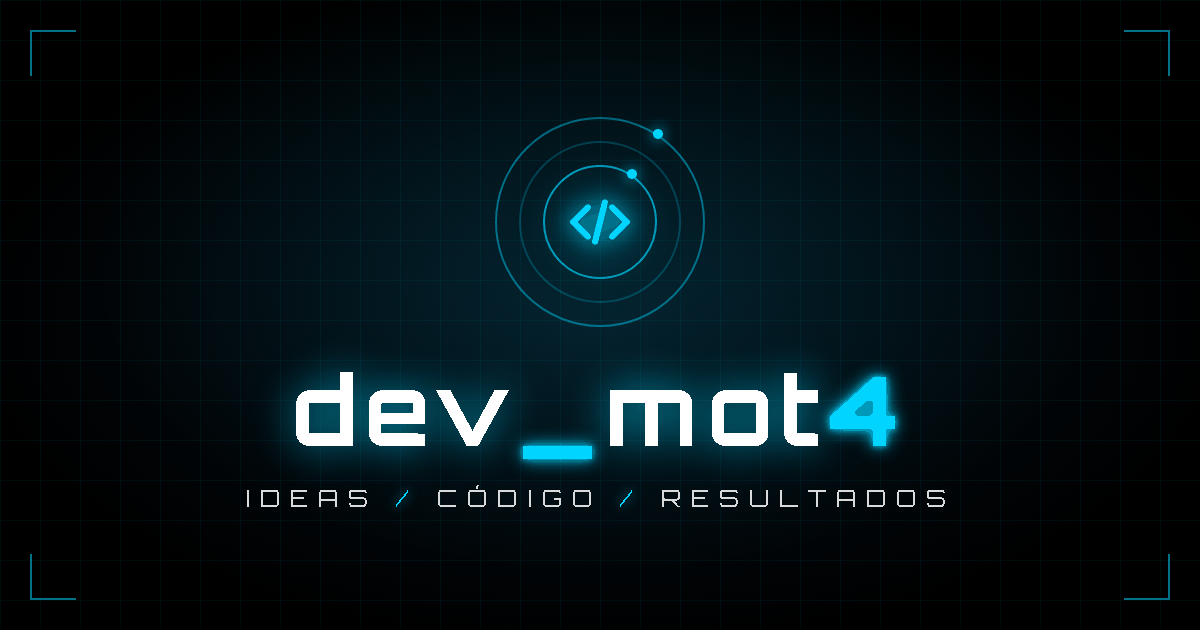
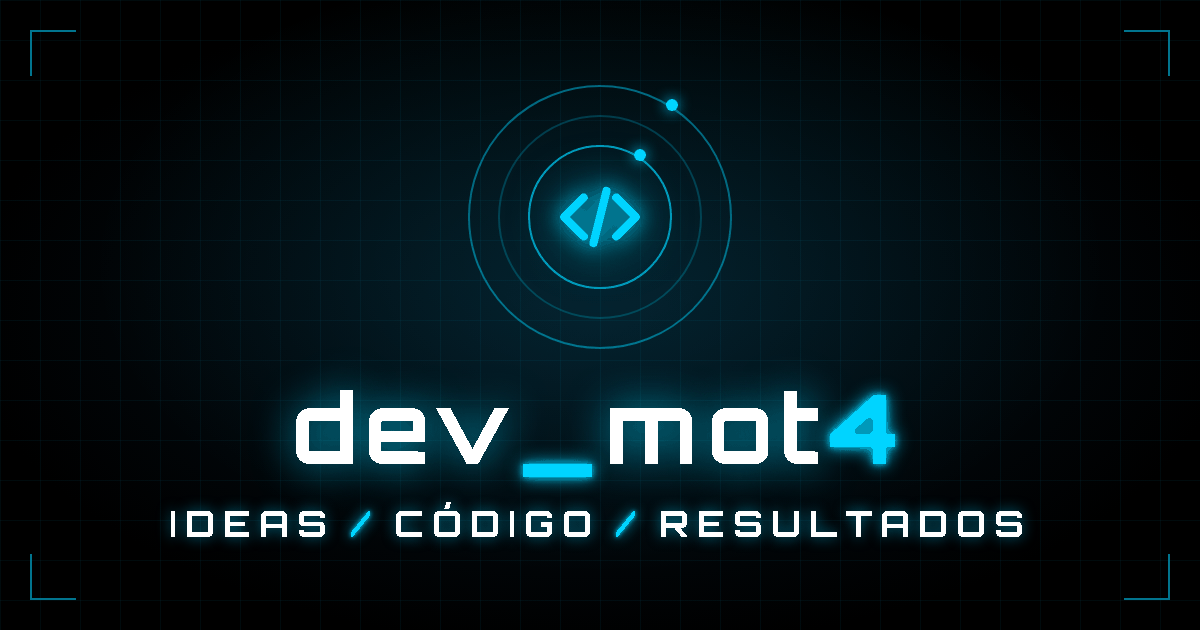
og-image: slogan, símbolo e anéis maiores
- slogan IDEAS / CÓDIGO / RESULTADOS de 24px para 36px, em negrito,
  branco puro com brilho (mais legível na prévia pequena do WhatsApp)
- anéis de 210px para 264px e símbolo </> de 78px para 104px
- conteúdo centralizado, a no mínimo 93px das bordas; arquivo com 219 KB

diff --git a/design/og-image.html b/design/og-image.html
@@ -47,16 +47,16 @@
     .centro { position: absolute; inset: 0; display: flex; flex-direction: column; align-items: center; justify-content: center; }
 
     /* aneis como os do topo do site */
-    .aneis { position: relative; width: 210px; height: 210px; margin-bottom: 34px; }
+    .aneis { position: relative; width: 264px; height: 264px; margin-bottom: 30px; }
     .anel { position: absolute; border-radius: 50%; border: 2px solid rgba(0, 212, 255, 0.45); }
     .a1 { inset: 0; }
-    .a2 { inset: 24px; border-color: rgba(0, 212, 255, 0.22); }
-    .a3 { inset: 48px; border-color: rgba(0, 212, 255, 0.7); }
-    .ponto { position: absolute; width: 10px; height: 10px; border-radius: 50%; background: #00d4ff; box-shadow: 0 0 14px #00d4ff; }
-    .p1 { top: 12px; left: 158px; }
-    .p2 { top: 52px; left: 132px; }
+    .a2 { inset: 30px; border-color: rgba(0, 212, 255, 0.22); }
+    .a3 { inset: 60px; border-color: rgba(0, 212, 255, 0.7); }
+    .ponto { position: absolute; width: 12px; height: 12px; border-radius: 50%; background: #00d4ff; box-shadow: 0 0 14px #00d4ff; }
+    .p1 { top: 14px; left: 198px; }
+    .p2 { top: 64px; left: 166px; }
     .simbolo { position: absolute; inset: 0; display: flex; align-items: center; justify-content: center; }
-    .simbolo svg { width: 78px; height: 78px; filter: drop-shadow(0 0 10px #00d4ff) drop-shadow(0 0 24px rgba(0, 212, 255, 0.6)); }
+    .simbolo svg { width: 104px; height: 104px; filter: drop-shadow(0 0 10px #00d4ff) drop-shadow(0 0 24px rgba(0, 212, 255, 0.6)); }
 
     .marca {
         font-family: 'Orbitron', sans-serif;
@@ -71,11 +71,13 @@
     .destaque { color: #00d4ff; text-shadow: 0 0 18px #00d4ff, 0 0 6px #00d4ff; }
     .slogan {
         font-family: 'Orbitron', sans-serif;
-        font-size: 24px;
-        letter-spacing: 10px;
-        color: rgba(255, 255, 255, 0.85);
+        font-weight: 700;
+        font-size: 36px;
+        letter-spacing: 8px;
+        color: #fff;
+        text-shadow: 0 0 14px rgba(0, 212, 255, 0.55);
     }
-    .slogan .barra { color: #00d4ff; text-shadow: 0 0 12px #00d4ff; margin: 0 18px; }
+    .slogan .barra { color: #00d4ff; text-shadow: 0 0 14px #00d4ff, 0 0 4px #00d4ff; margin: 0 16px; }
 </style>
 </head>
 <body>
